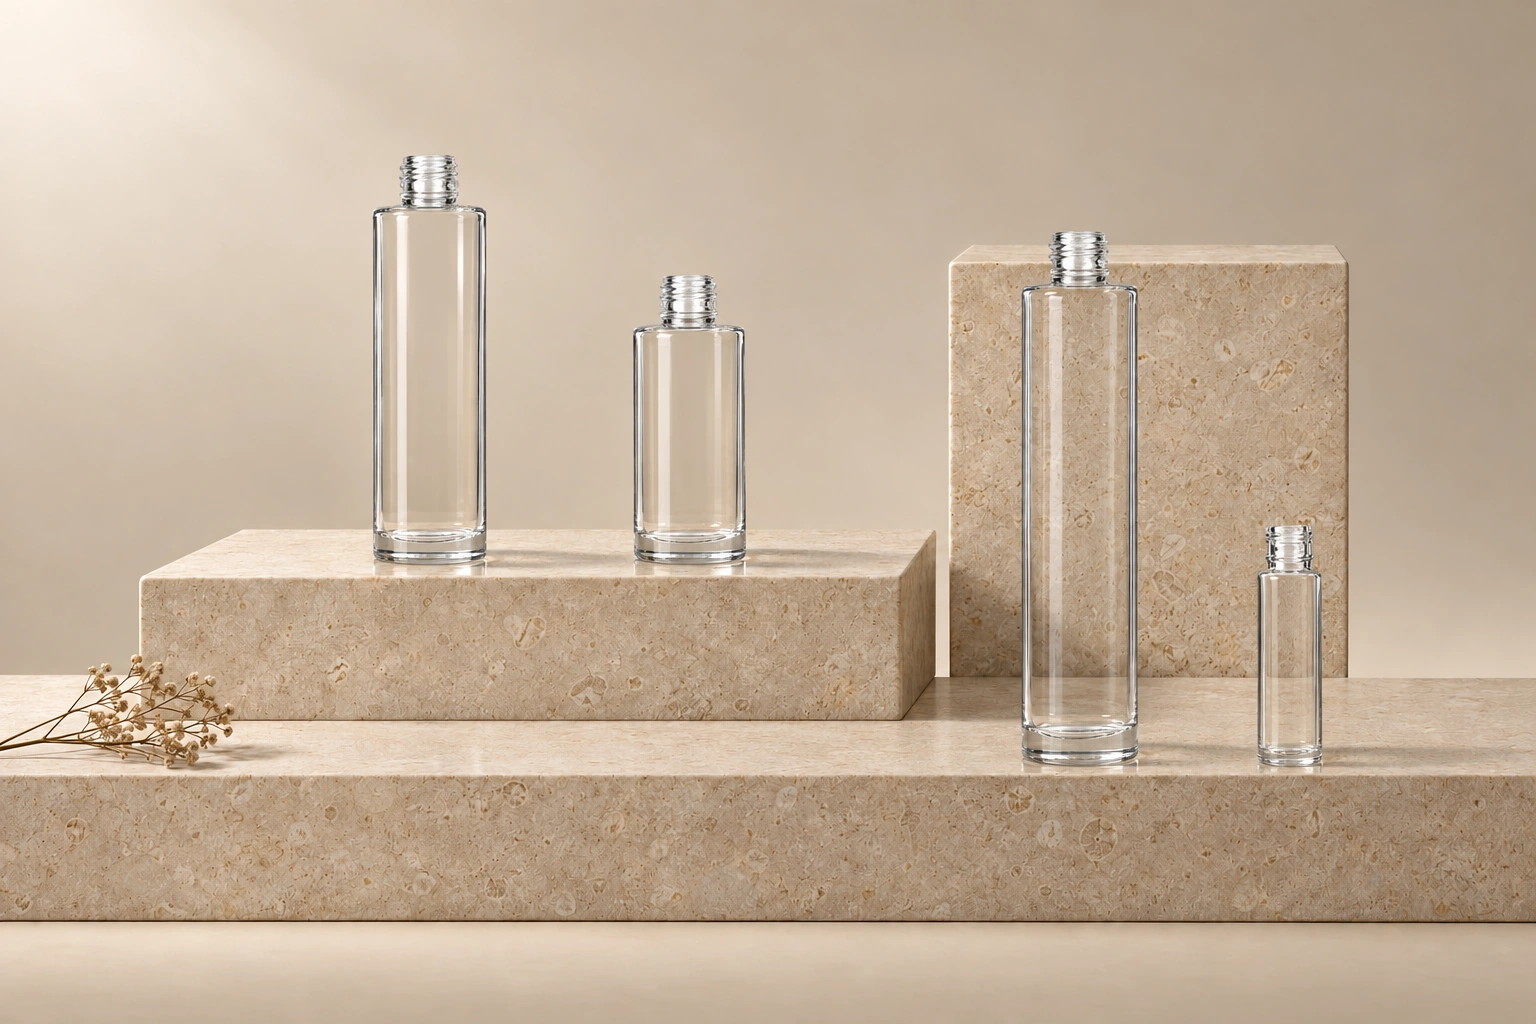
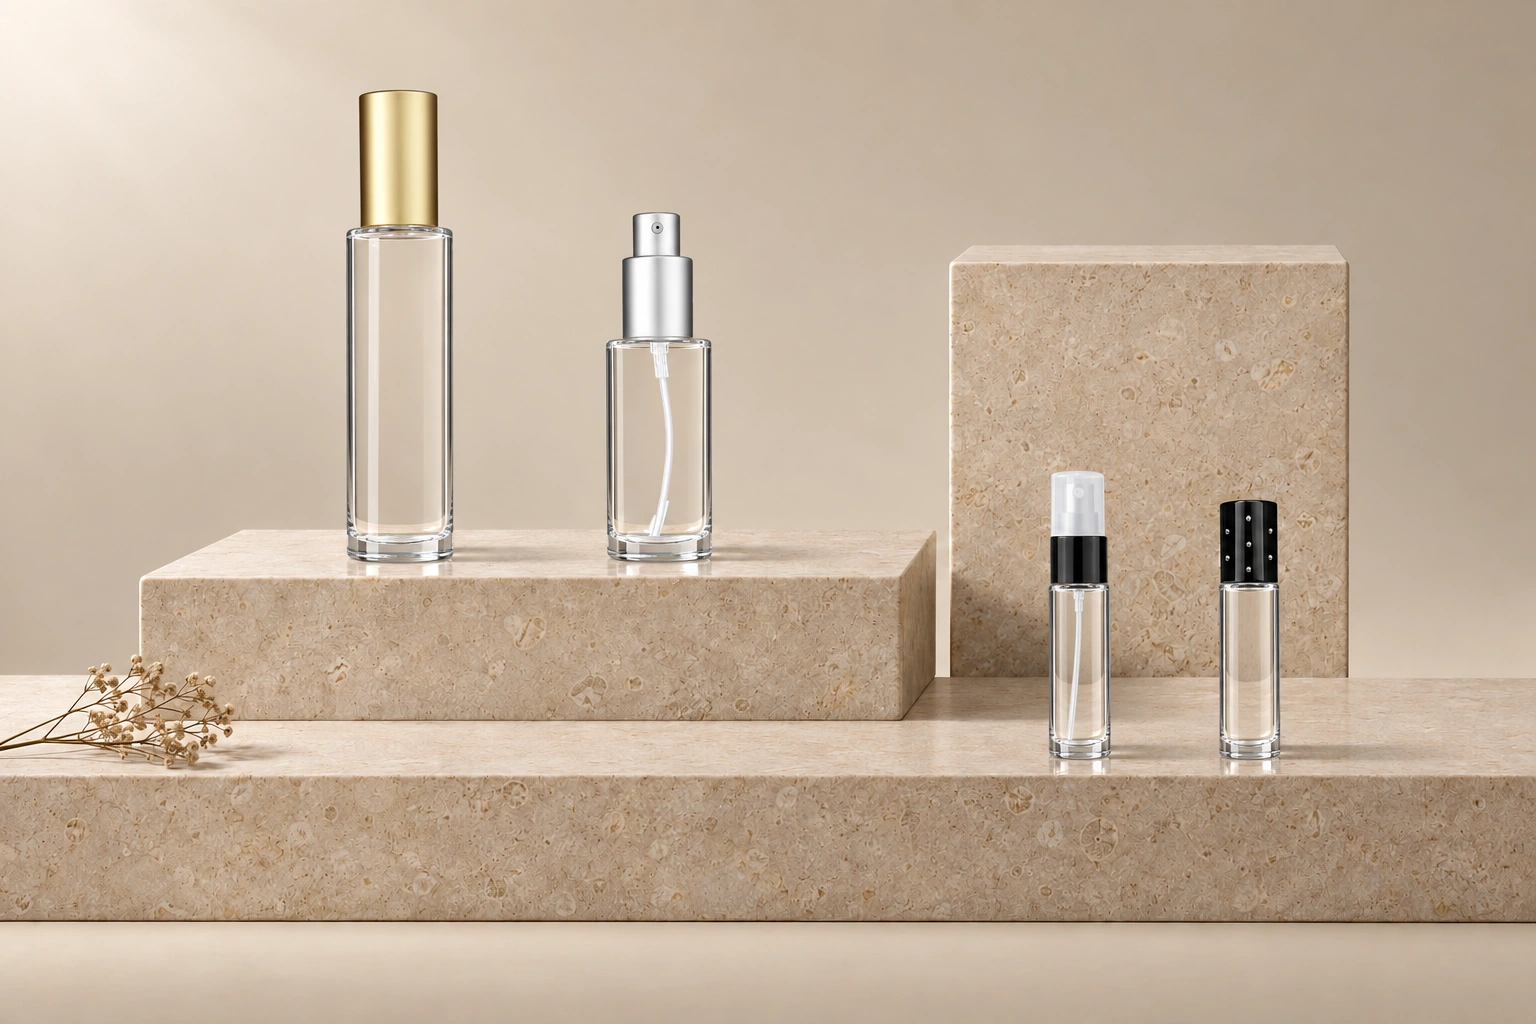
Show fitted assemblies in the Circle, Cylinder and Elegant heroes
Per Jordan: the family hero should sell the product with its fitment.
Each hero is now four real, in-stock SKUs (spray pump, lotion pump,
fine mist sprayer, roll-on) cut as complete assemblies from the PSD
masters — body plus closure, pump, roller and dip tube on one alpha —
placed at one px/mm on the stone set and glass-passed with every
closure's shape and finish locked. Outline-band gate PASS on all twelve.

extract_fitted.py (scratchpad lane) reads part layers through connected
components so the pure-white slabs the PSD masters carry on cap layers
no longer balloon a layer to full-bleed. Boston Round stays bare glass.

diff --git a/src/lib/products/family-hero-images.ts b/src/lib/products/family-hero-images.ts
@@ -1,9 +1,10 @@
 /**
  * Family landing-page heroes (`/catalog/<family>`).
  *
- * Each image is a locked composite of real bottle cutouts from the PSD masters,
- * placed at ONE px/mm on a generated stone set and re-rendered as glass with the
- * silhouettes gated — geometry from the catalogue, beautification from the model.
+ * Each image is a locked composite of real assemblies (bottle + its closure, pump,
+ * sprayer or roller, cut from the PSD masters) placed at ONE px/mm on a generated
+ * stone set and re-rendered as glass with the silhouettes gated — geometry from the
+ * catalogue, beautification from the model. Every fitment is an in-stock SKU.
  * Sanity `productFamilyContent.familyHeroImage` still wins when an editor sets one;
  * this map is the code-owned fallback in front of the homepage mosaic.
  */
@@ -16,15 +17,15 @@ export type FamilyHeroImage = {
 export const FAMILY_HERO_IMAGES: Readonly<Record<string, FamilyHeroImage>> = {
     Circle: {
         src: "/assets/family-heroes/circle.webp",
-        alt: "Circle bottles in 15, 50 and 100 mL, clear and frosted glass, standing on travertine blocks",
+        alt: "Circle bottles on travertine: 100 mL with matte silver spray pump, 50 mL with matte gold spray pump, 50 mL with shiny black lotion pump, and 15 mL roll-on with matte gold cap",
     },
     Cylinder: {
         src: "/assets/family-heroes/cylinder.webp",
-        alt: "Cylinder bottles in 9, 25, 50 and 100 mL clear glass, standing on limestone blocks",
+        alt: "Cylinder bottles on limestone: 50 mL with matte gold spray pump, 25 mL with matte silver lotion pump, 9 mL fine mist sprayer, and 9 mL roll-on with black dot cap",
     },
     Elegant: {
         src: "/assets/family-heroes/elegant.webp",
-        alt: "Elegant bottles in 15, 60 and 100 mL, clear and frosted glass, standing on white travertine blocks",
+        alt: "Elegant bottles on white travertine: 100 mL with matte gold spray pump, 15 mL with matte black fine mist sprayer, 60 mL with shiny black lotion pump, and 15 mL roll-on with black dot cap",
     },
     "Boston Round": {
         src: "/assets/family-heroes/boston-round.webp",
